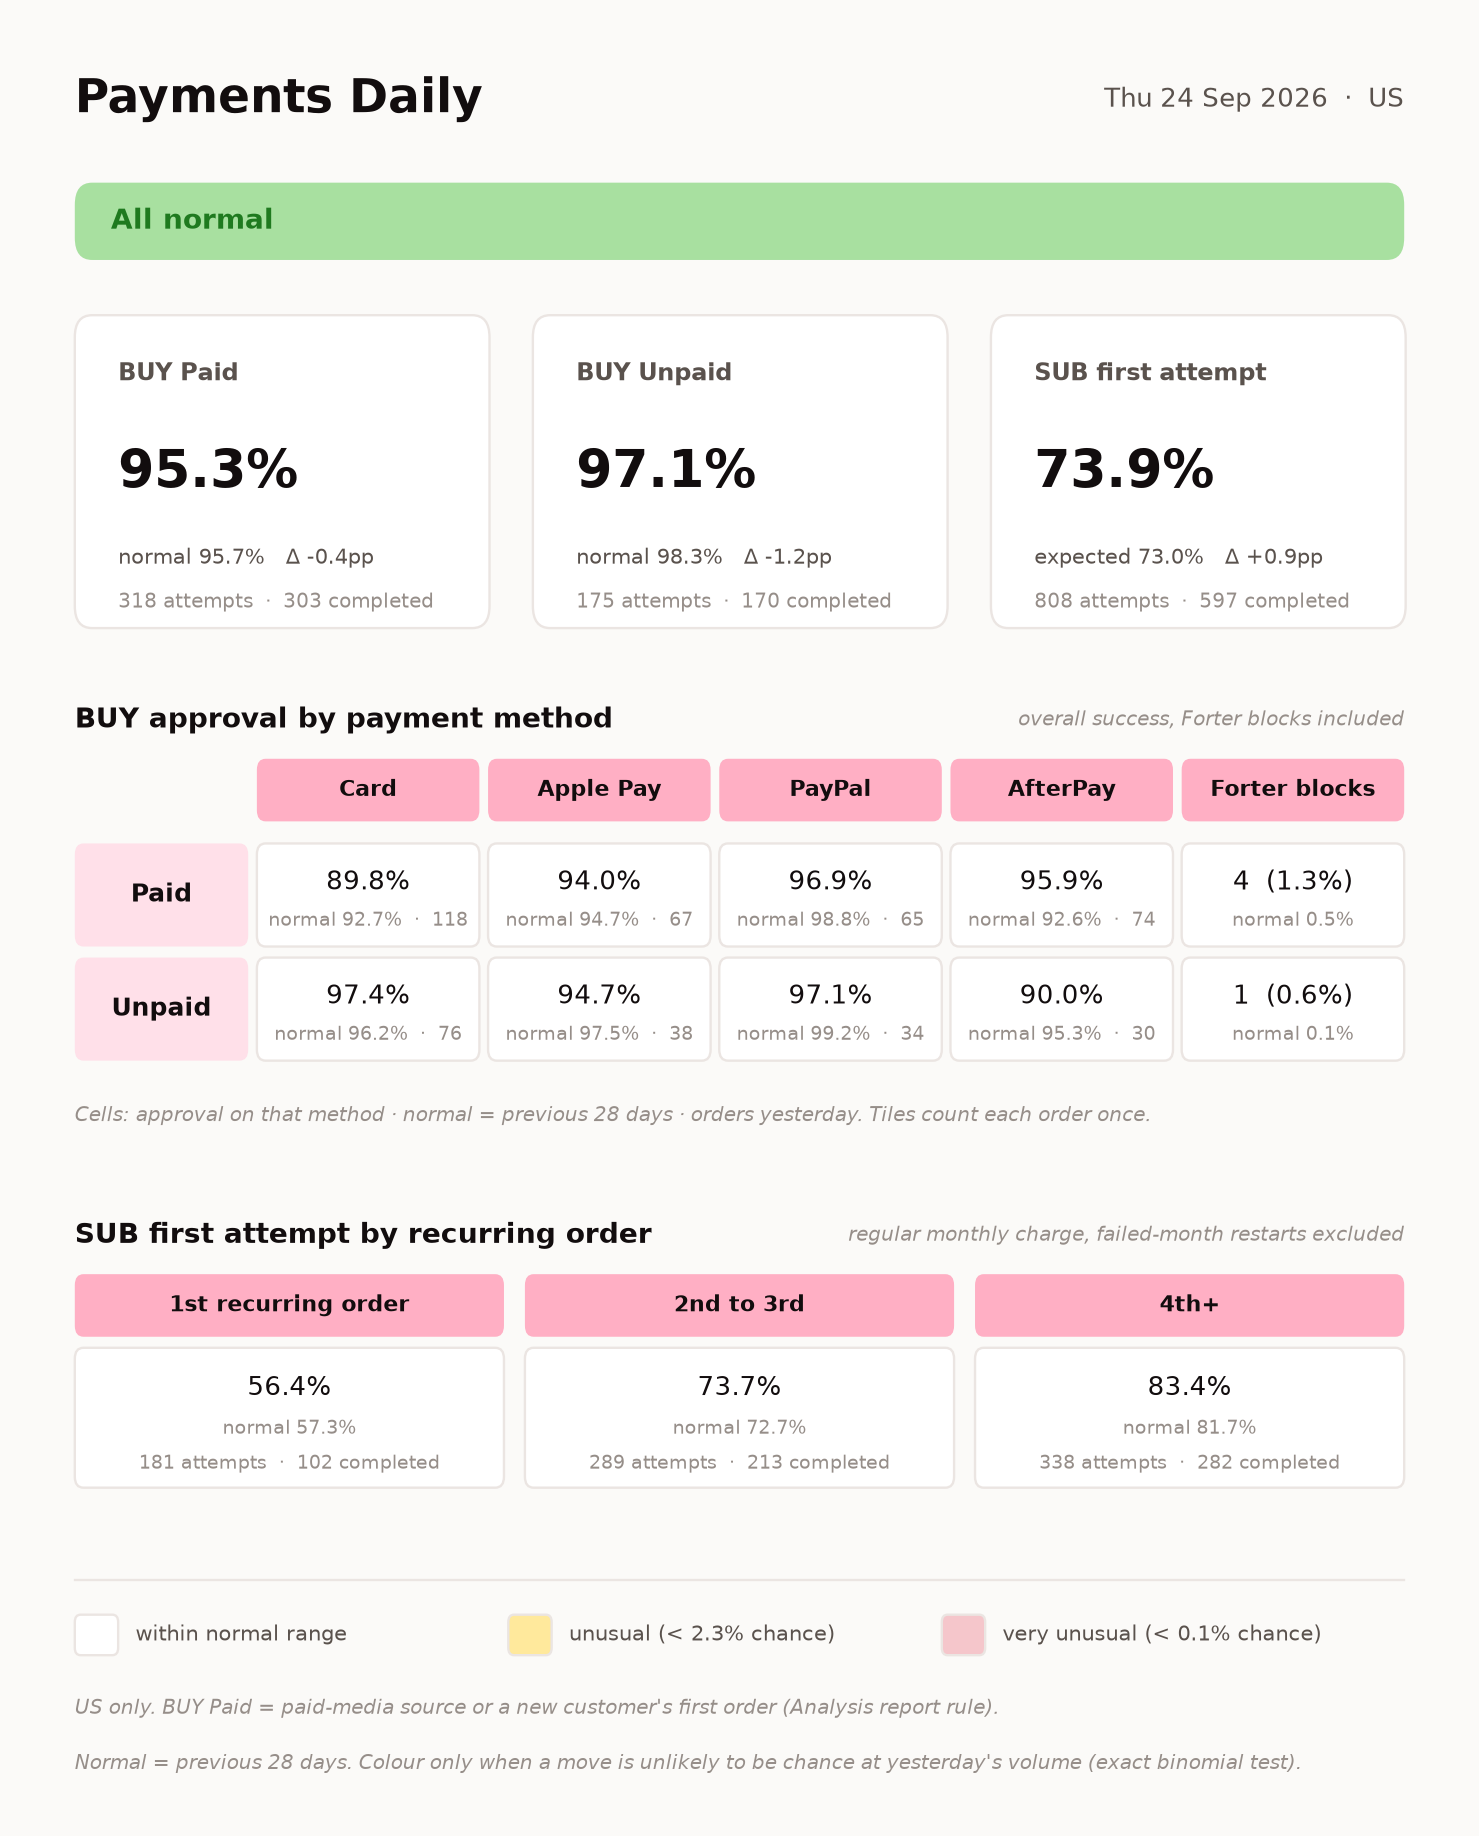
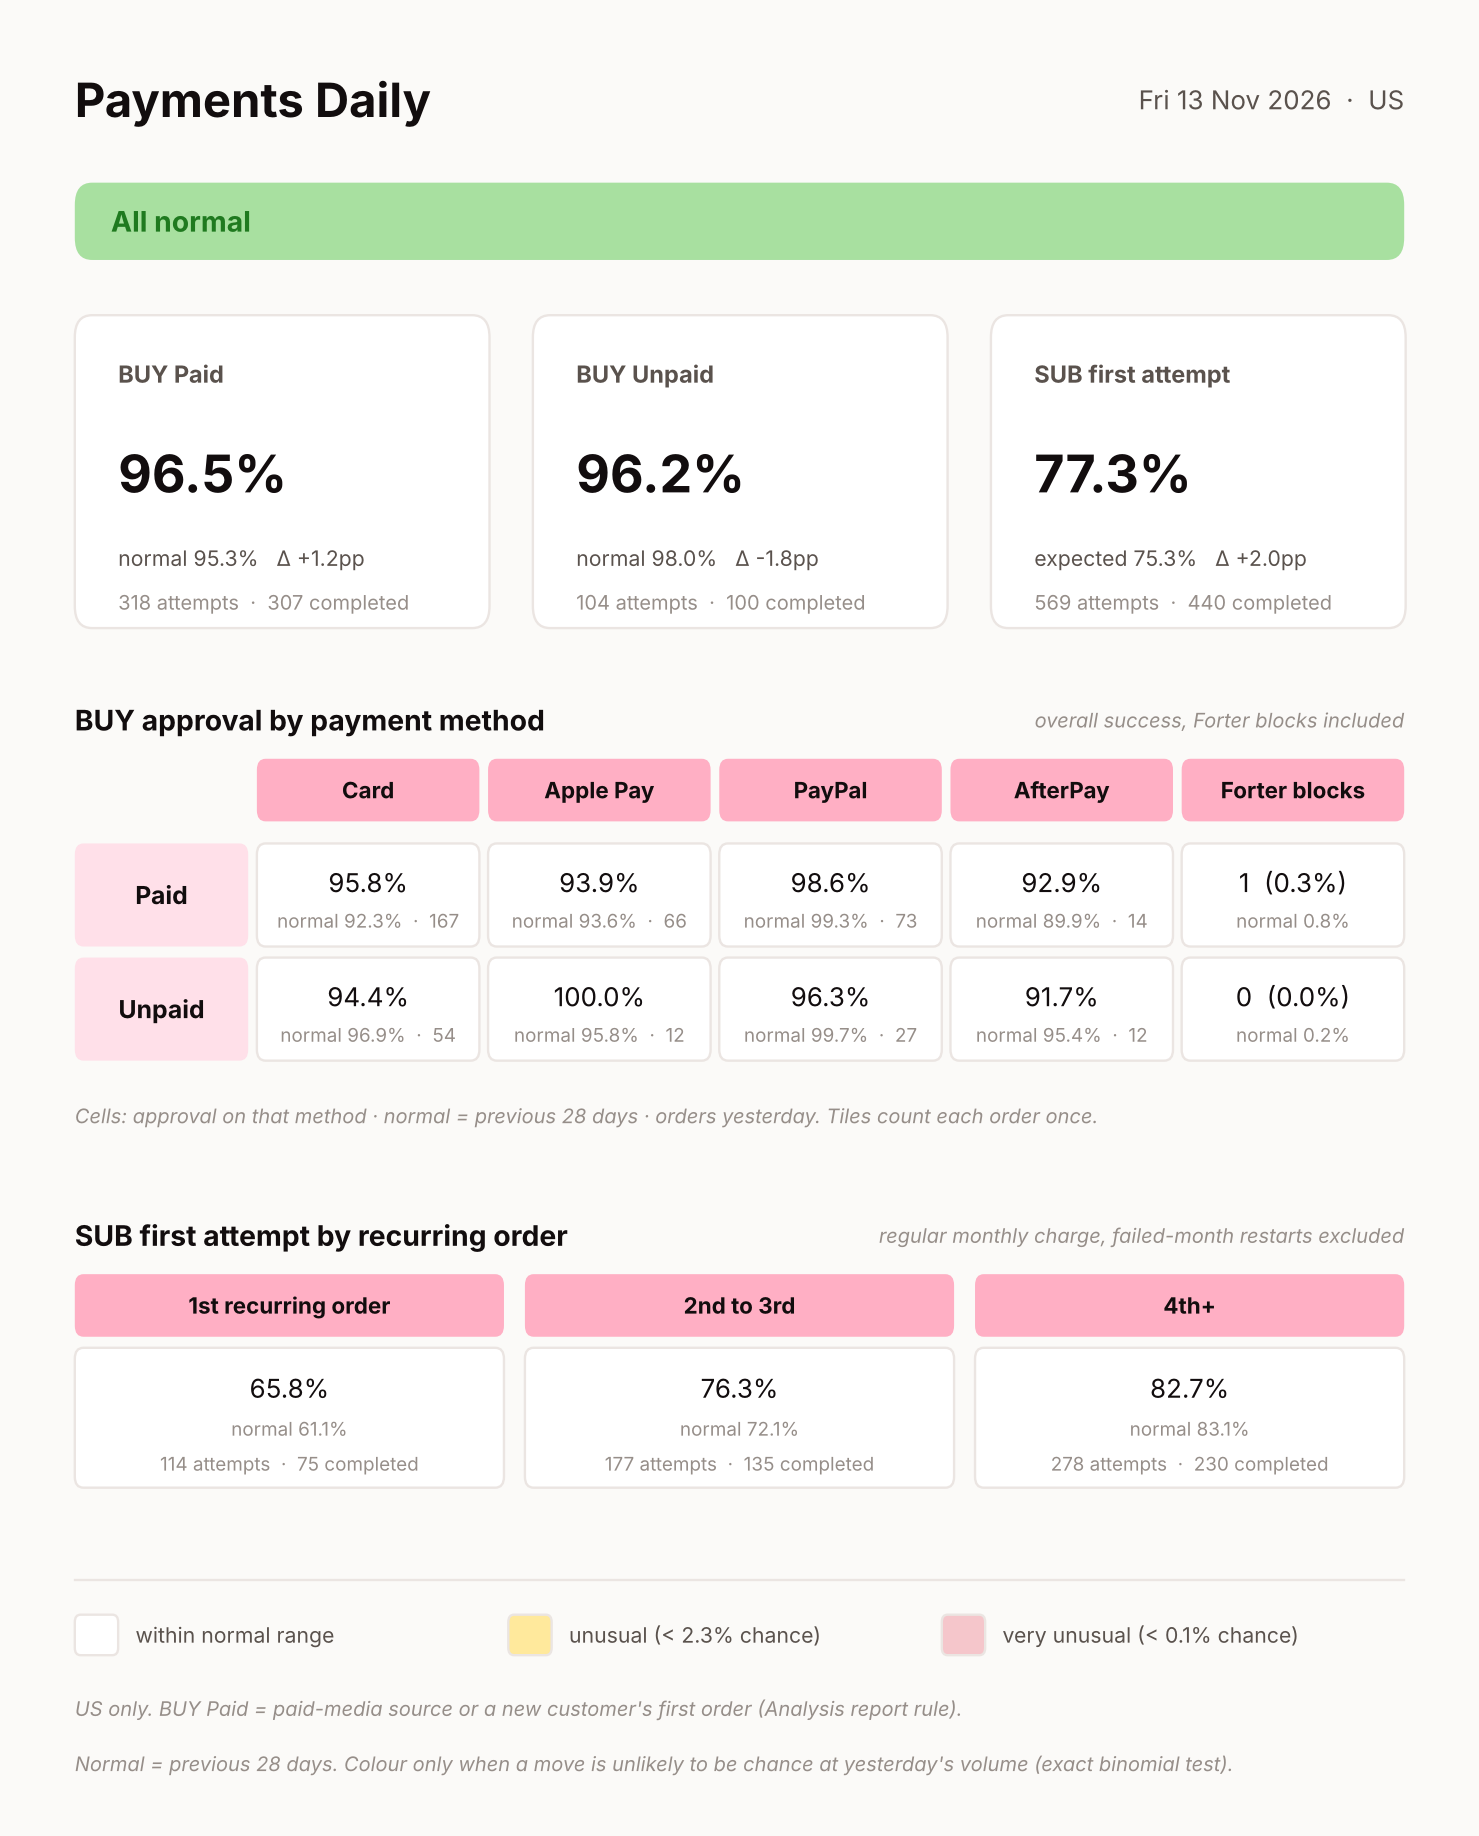
SUB section: recurring order group x payment method grid (#162)
* Daily payments report — 2026-11-13

* SUB section: add first-attempt success by payment method (Card, Apple Pay, PayPal)

Query returns SUB rows per payment method (dims CC/AP/PP), scored against
the 28-day normal like the BUY method cells. Rendered as a second row under
the recurring-order row.

Claude-Session: https://claude.ai/code/session_01SCgjT7Vy1Lm9cvCvSfnyQx

* SUB section: recurring order group x payment method grid

Replaces the separate recurring-order and payment-method rows with one grid:
rows 1st recurring order / 2nd to 3rd / 4th+, columns Card / Apple Pay /
PayPal. The query returns dims 'RN1|CC' ... 'RN4+|PP'; the RN totals stay for
the SUB tile's mix-adjusted expected rate.

Claude-Session: https://claude.ai/code/session_01SCgjT7Vy1Lm9cvCvSfnyQx

---------

diff --git a/run_daily_payments.py b/run_daily_payments.py
@@ -25,7 +25,8 @@ Expected JSON shape — a list of rows with keys
   dim, n, k
 where dim is 'Overall' (n attempted, k completed), 'CC' / 'AP' / 'PP' / 'AF'
 (BUY, per payment method), 'Forter' (BUY, k = Forter-declined orders) or
-'RN1' / 'RN2-3' / 'RN4+' (SUB, by recurring order number).
+'RN1' / 'RN2-3' / 'RN4+' (SUB, by recurring order number; used for the SUB tile's
+expected rate) and 'RN1|CC' ... 'RN4+|PP' (SUB, recurring order group x payment method).
 
 Scoring: yesterday is compared with the previous 28 days ("normal"). A cell is
 coloured only when a move that bad is unlikely to be chance at yesterday's
@@ -57,6 +58,7 @@ GITHUB_OWNER_REPO = "yaelk-maker/Daily-payments-routines"
 BUY_SEGMENTS = [("BuyPaid", "Paid"), ("BuyUnpaid", "Unpaid")]
 METHODS      = [("CC", "Card"), ("AP", "Apple Pay"), ("PP", "PayPal"), ("AF", "AfterPay")]
 SUB_BUCKETS  = [("RN1", "1st recurring order"), ("RN2-3", "2nd to 3rd"), ("RN4+", "4th+")]
+SUB_METHODS  = [("CC", "Card"), ("AP", "Apple Pay"), ("PP", "PayPal")]
 AMBER_P, RED_P = 0.0228, 0.00135
 
 # MAËLYS brand palette (semantic traffic-light colors kept for status)
@@ -115,7 +117,7 @@ def build_model(cells: dict) -> dict:
             return "ok"
         return status(tail_p(y[1], y[0], base, upper=upper))
 
-    m = {"tiles": [], "buy": {}, "sub": [], "flags": []}
+    m = {"tiles": [], "buy": {}, "sub": {}, "flags": []}
 
     # headline tiles: BUY vs its 28-day rate, SUB vs the rate expected for yesterday's mix
     for seg, label in (("BuyPaid", "BUY Paid"), ("BuyUnpaid", "BUY Unpaid")):
@@ -153,15 +155,19 @@ def build_model(cells: dict) -> dict:
                                    f"vs {base*100:.1f}% normal"))
         m["buy"][label] = row
 
-    # SUB by recurring order number
-    for code, name in SUB_BUCKETS:
-        y = get("Y", "Sub", code)
-        base = rate(get("B28", "Sub", code))
-        st = score(y, base)
-        m["sub"].append(dict(name=name, v=rate(y), base=base, n=y[0], k=y[1], st=st))
-        if st in ("amber", "red"):
-            m["flags"].append((st, f"SUB {name} approval: {rate(y)*100:.1f}% vs {base*100:.1f}% "
-                                   f"normal ({y[0]} attempts)"))
+    # SUB by recurring order group x payment method
+    for bucket, bname in SUB_BUCKETS:
+        row = []
+        for code, name in SUB_METHODS:
+            y = get("Y", "Sub", f"{bucket}|{code}")
+            base = rate(get("B28", "Sub", f"{bucket}|{code}"))
+            st = score(y, base)
+            row.append(dict(v=rate(y), base=base, n=y[0], k=y[1], st=st))
+            if st in ("amber", "red"):
+                m["flags"].append((st, f"SUB {bname}, {name.lower() if code == 'CC' else name}: "
+                                       f"{rate(y)*100:.1f}% vs {base*100:.1f}% normal "
+                                       f"({y[0]} attempts)"))
+        m["sub"][bname] = row
     return m
 
 
@@ -260,21 +266,25 @@ def generate_image(cells: dict, report_date: str, out_path: Path) -> None:
                "Tiles count each order once.", fontsize=8.5, color=NEU2, style="italic")
     y0 -= 6.5
 
-    # SUB by recurring order number
-    section(y0, "SUB first attempt by recurring order",
-            "regular monthly charge, failed-month restarts excluded")
+    # SUB by recurring order number, then by payment method
+    section(y0, "SUB first attempt by recurring order and payment method",
+            "failed-month restarts excluded")
     y0 -= 5.5
-    pw = 29.7
-    xs = [4 + i * (pw + 1.45) for i in range(3)]
-    header(y0, xs, pw, [s["name"] for s in m["sub"]])
-    y0 -= 6.2
-    y0 -= 2
-    for x, s in zip(xs, m["sub"]):
-        box(x, y0, pw, 7.6, FILL[s["st"]], r=0.6)
-        txt(x + pw / 2, y0 + 5.4, _pct(s["v"]) if s["n"] else "no orders", ha="center", fontsize=11)
-        txt(x + pw / 2, y0 + 3.2, f"normal {_pct(s['base'])}", ha="center", fontsize=8, color=NEU2)
-        txt(x + pw / 2, y0 + 1.3, f"{s['n']:,} attempts  ·  {s['k']:,} completed",
-            ha="center", fontsize=8, color=NEU2)
+    lw_ = 18
+    pw = (96 - 4 - lw_ - 0.6 * 3) / 3
+    xs = [4 + lw_ + 0.6 + i * (pw + 0.6) for i in range(3)]
+    header(y0, xs, pw, [name for _, name in SUB_METHODS])
+    y0 -= 0.6
+    for bname, row in m["sub"].items():
+        y0 -= 8.2
+        box(4, y0, lw_, 7.6, PINK_L, ec="none", r=0.6)
+        txt(4 + lw_ / 2, y0 + 3.8, bname, ha="center", fontsize=10, fontweight="bold")
+        for x, c in zip(xs, row):
+            box(x, y0, pw, 7.6, FILL[c["st"]], r=0.6)
+            txt(x + pw / 2, y0 + 5.4, _pct(c["v"]) if c["n"] else "no orders", ha="center", fontsize=11)
+            txt(x + pw / 2, y0 + 3.2, f"normal {_pct(c['base'])}", ha="center", fontsize=8, color=NEU2)
+            txt(x + pw / 2, y0 + 1.3, f"{c['n']:,} attempts  ·  {c['k']:,} completed",
+                ha="center", fontsize=8, color=NEU2)
     y0 -= 5
 
     # legend

diff --git a/README.md b/README.md
@@ -18,7 +18,7 @@
 | **Banner** | "All normal" in green, or one line per unusual cell (amber) or very unusual cell (red, listed first) |
 | **Headline tiles** | BUY Paid, BUY Unpaid, SUB first attempt: yesterday's success rate, its normal, the change in pp, and `attempts · completed` |
 | **BUY approval by payment method** | Paid and Unpaid × Card, Apple Pay, PayPal, AfterPay, plus Forter blocks. Each cell shows yesterday, its normal and yesterday's order count |
-| **SUB first attempt by recurring order** | 1st recurring order, 2nd to 3rd, 4th+ |
+| **SUB first attempt by recurring order and payment method** | Rows 1st recurring order, 2nd to 3rd, 4th+ × columns Card, Apple Pay, PayPal. Each cell shows yesterday, its normal, attempts and completed |
 
 Removed from the daily image by design: Last 7d / MTD / Prev month rows, SUB Blended (retries), and the per-processor view. Trend and retry recovery belong in a weekly review, and processor outages in an hourly alert.
 
